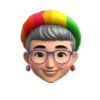
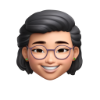
3rd: added - certificates section,css,array

diff --git a/src/data/testimonialsData.ts b/src/data/testimonialsData.ts
@@ -1,49 +1,25 @@
 import memojiAvatar1 from "@/assets/images/memoji-avatar-1.png";
-import memojiAvatar2 from "@/assets/images/memoji-avatar-2.png";
 import memojiAvatar3 from "@/assets/images/memoji-avatar-3.png";
-import memojiAvatar4 from "@/assets/images/memoji-avatar-4.png";
-import memojiAvatar5 from "@/assets/images/memoji-avatar-5.png";
+
+const freelancerHelsinki2025 = "https://drive.google.com/file/d/1q7Q46SaFS5m5-xBjisTzLaFIB7kioD0N/view?usp=sharing";
+const integrifyTestimonial2024 = "https://drive.google.com/file/d/1mJxErL-vgAmgJfrsRoSGveUTP1-G9dlC/view?usp=sharing";
 
 const testimonialsData = [
   {
-    name: "Alex Turner",
-    position: "Marketing Manager @ TechStartups",
-    text: "Alex was instrumental in transforming our website into a powerful marketing tool. His attention to detail and ability to understand our brand is exceptional. We're thrilled with the results!",
-    location: "New York, USA",
-    certificate: "https://example.com/certficate1.pdf",
+    name: "Yazan Al Halabi",
+    position: "Senior Full Stack Instructor & SI team lead",
+    text: "student in the fullstack program that I taught. During the course, Hien Thuy consistently demonstrated a deep understanding of both front-end and back-end development....",
+    location: "Helsinki, Finland",
+    certificate: integrifyTestimonial2024,
     avatar: memojiAvatar1,
   },
   {
-    name: "Olivia Green",
-    position: "Head of Design @ GreenLeaf",
-    text: "Working with Alex was a pleasure. His expertise in frontend development brought our designs to life in a way we never imagined. The website has exceeded our expectations.",
-    certificate: "https://example.com/certficate-new.pdf",
+    name: "Nghi Le",
+    position: "Team Lead @ Freelancer",
+    text: "I am pleased to recommand Thuy HIen TRan Nguyen to you. As a senior software developer with experience ranging from small startups to large corporations like Nordea, Nokia and Siemens, ....",
+    certificate: freelancerHelsinki2025,
     location: "Helsinki, Finland",
-    avatar: memojiAvatar2,
-  },
-  {
-    name: "Daniel White",
-    position: "CEO @ InnovateCo",
-    text: "Alex's ability to create seamless user experiences is unmatched. Our website has seen a significant increase in conversions since launching the new design. We couldn't be happier.",
-    certificate: "https://example.com/certficate-alex.pdf",
-    location: "New York, USA",
     avatar: memojiAvatar3,
-  },
-  {
-    name: "Emily Carter",
-    position: "Product Manager @ GlobalTech",
-    text: "Alex is a true frontend wizard. He took our complex product and transformed it into an intuitive and engaging user interface. We're already seeing positive feedback from our customers.",
-    certificate: "https://example.com/certficate-2.pdf",
-    location: "New York, USA",
-    avatar: memojiAvatar4,
-  },
-  {
-    name: "Michael Brown",
-    position: "Director of IT @ MegaCorp",
-    text: "Alex's work on our website has been nothing short of exceptional. He's a talented developer who is also a great communicator. We highly recommend him.",
-    certificate: null,
-    location: "New York, USA",
-    avatar: memojiAvatar5,
   },
 ];
 

diff --git a/src/data/certificatesList.ts b/src/data/certificatesList.ts
@@ -1,0 +1,40 @@
+import uniOfHelsinkiCertImage from "@/assets/images/uniOfHel-FullStack-certificate.png";
+import vamkDegreeCertImage from "@/assets/images/vamk-certificate-2023.png";
+import integrifyProgramImage from "@/assets/images/integrify-FStack-DevOps-Program.png";
+
+const integrifyCertificate2024 = "https://drive.google.com/file/d/1iEWd5BAdBn7mRDUbrEbCg7tS1brfoKWV/view?usp=sharing";
+const vamkDegree2023 = "https://drive.google.com/file/d/1vsb2bZQ9YWf283lNRNlUDM73LE7j9jv_/view?usp=sharing";
+const uniOfHelsinkiCertificate2023 ="https://drive.google.com/file/d/1ap3_zMFIm3SOkEoRnzGZlB_oU5Yx2T-s/view?usp=sharing";
+
+const certificatesList = [
+    {
+      title: "Full-Stack Web Development Certificate",
+      topic: "React Native Development",
+      issuer: "University of Helsinki",
+      location: "Helsinki, Finland",
+      year: "2023",
+      image: uniOfHelsinkiCertImage, 
+      link: uniOfHelsinkiCertificate2023, 
+    },
+    {
+      title: "Bachelor of Engineering in Information Technology Certificate",
+      topic: "Software Engineering",
+      issuer: "Vaasan ammattikorkeakoulu (VAMK)",
+      location: "Vaasa, Finland",
+      year: "2023",
+      image: vamkDegreeCertImage,
+      link: vamkDegree2023,
+    },
+    {
+      title: "Full Stack Web Development Certificate",
+      topic: "DevOps and Cloud Computing",
+      issuer: "Integrify Academy",
+      location: "Helsinki, Finland",
+      year: "2024",
+      image: integrifyProgramImage,
+      link: integrifyCertificate2024,
+    },
+  ];
+  
+  export default certificatesList;
+  

diff --git a/src/sections/Certificates.tsx b/src/sections/Certificates.tsx
@@ -1,0 +1,51 @@
+"use client";
+
+import Image from "next/image";
+import certificatesList from "@/data/certificatesList";
+
+export const CertificatesSection = () => {
+  return (
+    <div id="certificates" className="certificates-section">
+      <div className="certificate-head-banner">
+        <h2>📜 Certifications & Achievements</h2>
+        <p>Proof of my successful completion of various programs.</p>
+      </div>
+
+      <div className="certificate-grid-container">
+        {certificatesList.map((cert, index) => (
+          <div key={index} className="certificate-card">
+            <div className="certificate-image">
+              <Image
+                src={cert.image}
+                alt={cert.title}
+                width={300}
+                height={200}
+              />
+            </div>
+            <div className="certificate-content">
+              <h3>{cert.title}</h3>
+              {cert.topic && <h5>{cert.topic}</h5>}
+              <p>
+                {cert.issuer} | {cert.year}
+              </p>
+              {cert.link && (
+                <a
+                  href={cert.link}
+                  target="_blank"
+                  rel="noopener noreferrer"
+                  className="button-base button-circle mt-6 block"
+                >
+                  View Certificate 🔗
+                </a>
+              )}
+            </div>
+          </div>
+        ))}
+      </div>
+
+      <div className="app-layout-cross-section-line"></div>
+    </div>
+  );
+};
+
+export default CertificatesSection;

diff --git a/src/data/cvArray.ts b/src/data/cvArray.ts
@@ -1,3 +1,7 @@
+const freelancerHelsinki2025 = "https://drive.google.com/file/d/1q7Q46SaFS5m5-xBjisTzLaFIB7kioD0N/view?usp=sharing";
+const integrifyCertificate2024 = "https://drive.google.com/file/d/1iEWd5BAdBn7mRDUbrEbCg7tS1brfoKWV/view?usp=sharing";
+const vamkDegree2023 = "https://drive.google.com/file/d/1vsb2bZQ9YWf283lNRNlUDM73LE7j9jv_/view?usp=sharing";
+
 const CVArray = [
   {
     start_year: "9/2018",
@@ -11,7 +15,7 @@ const CVArray = [
     color: "#FF8C00",
     icon: "🎓",
     status: "Completed",
-    certificate: "https://example.com/VAMK_degree.pdf",
+    certificate: vamkDegree2023,
   },
   {
     start_year: "12/2021",
@@ -37,7 +41,6 @@ const CVArray = [
     color: "#2E8B57",
     icon: "💼",
     status: "Completed",
-    certificate: "https://example.com/Internship_certificate.pdf",
   },
   {
     start_year: "8/2023",
@@ -50,7 +53,7 @@ const CVArray = [
     color: "#4169E1",
     icon: "💼",
     status: "Completed",
-    certificate: "https://example.com/Integrify_Trainee.pdf",
+    certificate: integrifyCertificate2024,
   },
   {
     start_year: "11/2024",
@@ -63,7 +66,7 @@ const CVArray = [
     color: "#9B30FF",
     icon: "💼",
     status: "On-going",
-    certificate: "https://example.com/Nghi-le.pdf",
+    certificate: freelancerHelsinki2025,
   },
   {
     start_year: "3/2025",

diff --git a/src/app/styles/certificates.css b/src/app/styles/certificates.css
@@ -1,0 +1,50 @@
+@tailwind components;
+
+@layer components {
+  /*..........................................................................*
+  /* Base styles for certificates section */
+
+  .certificates-section {
+    @apply flex flex-col items-center py-12 px-6;
+  }
+
+  .certificate-head-banner {
+    @apply text-center mb-10;
+  }
+
+  .certificate-head-banner h2 {
+    @apply text-3xl font-bold text-white;
+  }
+
+  .certificate-head-banner p {
+    @apply text-lg mt-2 text-gray-400 italic;
+  }
+
+  .certificate-grid-container {
+    @apply grid grid-cols-1 md:grid-cols-2 lg:grid-cols-3 gap-6;
+  }
+
+  .certificate-card {
+    @apply bg-gradient-to-br from-gray-950 to-gray-700  border border-gray-700 mb-12  p-5 rounded-lg shadow-lg flex flex-col items-center text-center transition-transform transform hover:scale-105;
+  }
+
+  .certificate-image img {
+    @apply mt-6 rounded-lg w-full h-auto;
+  }
+
+  .certificate-content {
+    @apply mt-6;
+  }
+
+  .certificate-content h3 {
+    @apply text-xl font-bold;
+  }
+
+  .certificate-content h5 {
+    @apply mt-2 text-base font-bold italic text-gray-500;
+  }
+
+  .certificate-content p {
+    @apply mt-10 text-gray-400;
+  }
+}

diff --git a/src/sections/Header.tsx b/src/sections/Header.tsx
@@ -8,6 +8,7 @@ export const Header = () => {
   const scrollToTestimonial = useScrollToSection("testimonial");
   const scrollToAbout = useScrollToSection("about");
   const scrollToContact = useScrollToSection("contact");
+  const scrollToCertificates = useScrollToSection("certificates");
 
   return (
     <div className="header-section">
@@ -20,6 +21,9 @@ export const Header = () => {
         </button>
         <button onClick={scrollToEdu} className="header-navbar-item">
           Work & Education
+        </button>
+        <button onClick={scrollToCertificates} className="header-navbar-item">
+          Certificates
         </button>
         <button onClick={scrollToTestimonial} className="header-navbar-item">
         Testimonial

diff --git a/src/app/styles/buttons.css b/src/app/styles/buttons.css
@@ -9,7 +9,7 @@
 
   /* Primary button (Blue) */
   .button-primary {
-    @apply bg-blue-600 hover:bg-cyan-600;
+    @apply bg-blue-600 hover:bg-cyan-600 shadow-md hover:shadow-lg transition duration-300;
   }
 
   /* Success button (Green) */
@@ -19,11 +19,11 @@
 
   /* Circle-style button */
   .button-circle {
-    @apply p-3 bg-gray-600 rounded-full text-sm text-white/90 font-extrabold;
+    @apply p-3 bg-gray-600 rounded-full text-sm text-white/90 font-extrabold mb-6;
   }
 
   .button-circle:hover {
-    @apply bg-gray-800 text-white border-4 border-dashed border-white;
+    @apply bg-gray-700 text-white/90 border-4 border-dashed border-white/60;
   }
 
   @media (min-width: 1024px) {

diff --git a/src/app/styles/hero.css b/src/app/styles/hero.css
@@ -21,7 +21,7 @@
     background-image: radial-gradient(white 2px, transparent 3px);
     background-size: 50px 50px;
     opacity: 0.3;
-    background-image: radial-gradient(blueviolet 2px, transparent 3px);
+    background-image: radial-gradient(pink 2px, transparent 3px);
     animation: twinkle 2s infinite alternate ease-in-out;
   }
 
@@ -52,11 +52,11 @@
   }
 
   .hero-heading {
-    @apply font-serif text-4xl text-center mt-8;
+    @apply font-serif text-9xl text-center mt-8 mb-2;
   }
 
   .hero-bio {
-    @apply mt-4 text-center text-white/60;
+    @apply mt-4 text-center text-white/90 font-serif;
   }
 
   .hero-footer {

diff --git a/src/app/styles/layout.css b/src/app/styles/layout.css
@@ -14,7 +14,7 @@
   }
 
   .app-layout-cross-section-line {
-    @apply mt-10 mb-10 h-0.5 w-full border-t-2 border-dashed border-gray-300;
+    @apply h-0.5 w-full border-t-2 border-dashed border-gray-300;
   }
 
   /* Ensure child containers use the available width */
@@ -27,7 +27,7 @@
   /* This is a CSS  module for  header section */
 
   .header-section {
-    @apply fixed top-6 left-1/2 bg-gray-600 transform -translate-x-1/2 flex justify-center z-50 w-max;
+    @apply fixed top-6 left-1/2 bg-gray-900 rounded-full transform -translate-x-1/2 flex justify-center z-50 w-max;
   }
 
   .header-navbar {

diff --git a/src/app/page.tsx b/src/app/page.tsx
@@ -1,4 +1,5 @@
 import { AboutSection } from "@/sections/About";
+import CertificatesSection from "@/sections/Certificates";
 import { ContactSection } from "@/sections/Contact";
 import { CVTree } from "@/sections/CVTree";
 import { Footer } from "@/sections/Footer";
@@ -19,6 +20,9 @@ export default function Home() {
       </div>
       <div id="edu&exp">
         <CVTree />
+      </div>
+      <div id="certificates">
+        <CertificatesSection />
       </div>
       <div id="testimonial">
         <TestimonialsSection />

diff --git a/src/app/globals.css b/src/app/globals.css
@@ -12,11 +12,12 @@
 @import "./styles/testimonials.css";
 @import "./styles/about.css";
 @import "./styles/contact.css";
+@import "./styles/certificates.css";
 
 /*.................................................................................*/
 /* This is a CSS  module for the entire body of this app */
 body {
-  @apply overflow-x-hidden;
+  @apply overflow-x-hidden bg-gradient-to-br from-gray-900 via-white/20 to-gray-800;
 }
 /* Increase text size for screens 800px and larger */
 @media (min-width: 800px) {

diff --git a/src/app/styles/about.css b/src/app/styles/about.css
@@ -6,7 +6,7 @@
 
   /* About Section - Flex layout */
   .about-section {
-    @apply flex flex-col space-y-10 pt-20 bg-gradient-to-br from-white/40 via-gray-800 to-white/40;
+    @apply flex flex-col space-y-10;
   }
 
   /* Top Container (Banner) */
@@ -32,7 +32,7 @@
   }
 
   .location-text {
-    @apply text-center mt-4 text-gray-400 text-sm;
+    @apply text-center mt-4 text-gray-500 text-sm;
   }
 
   .about-info-container {
